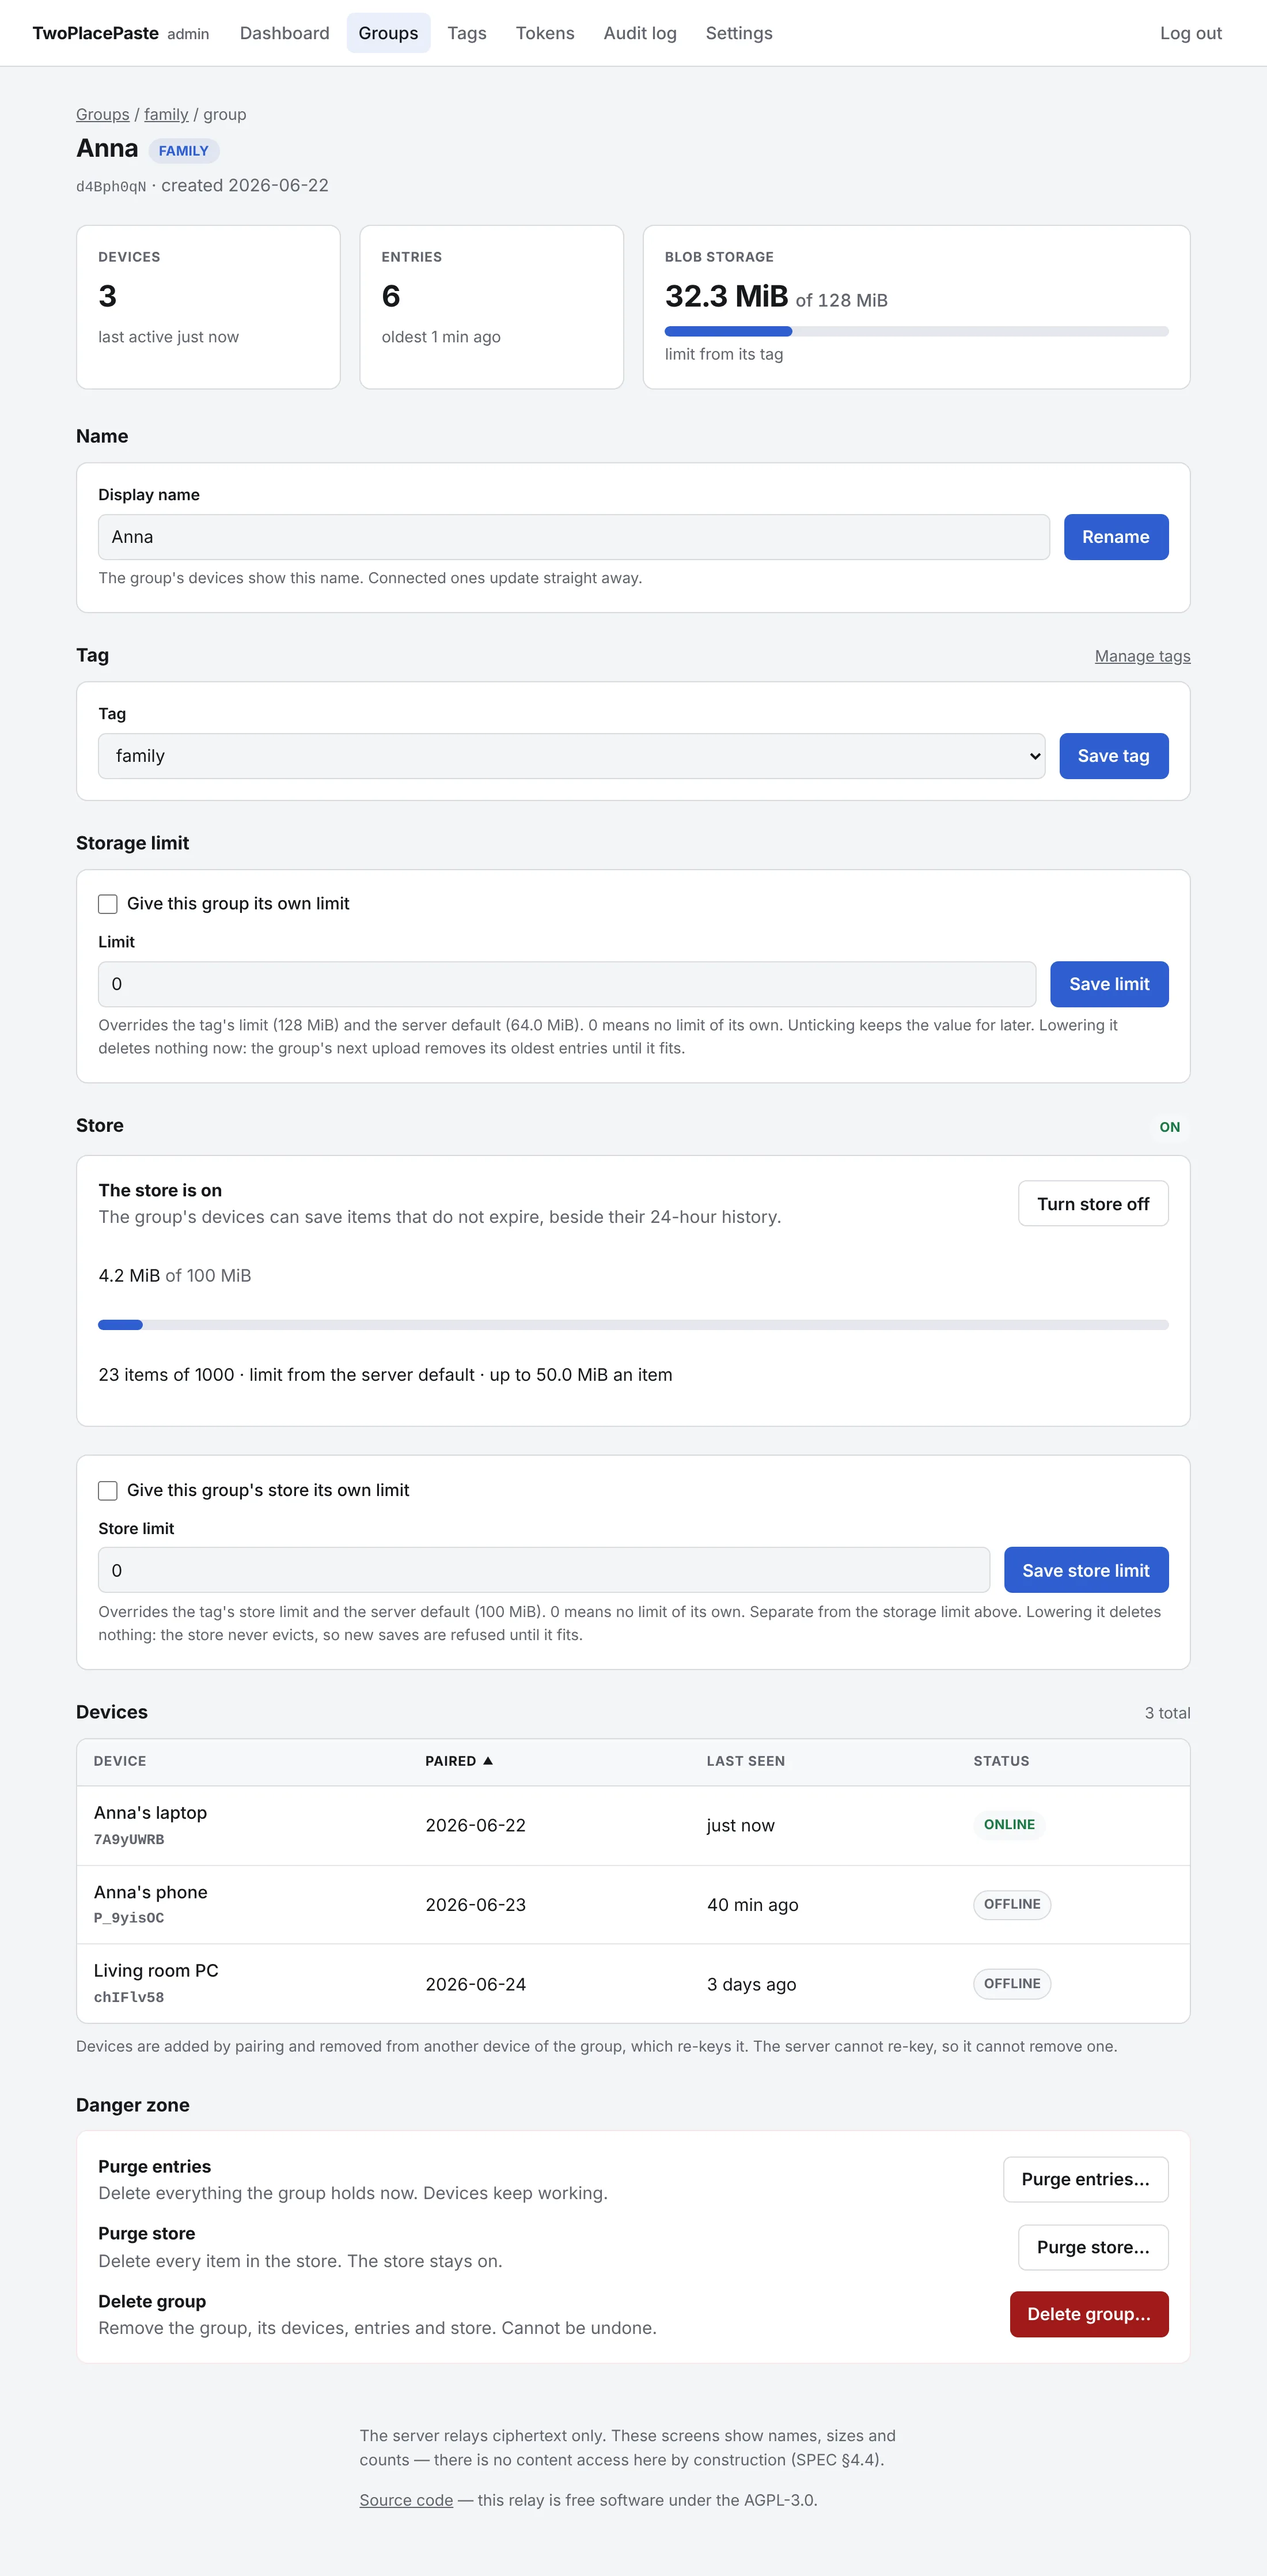
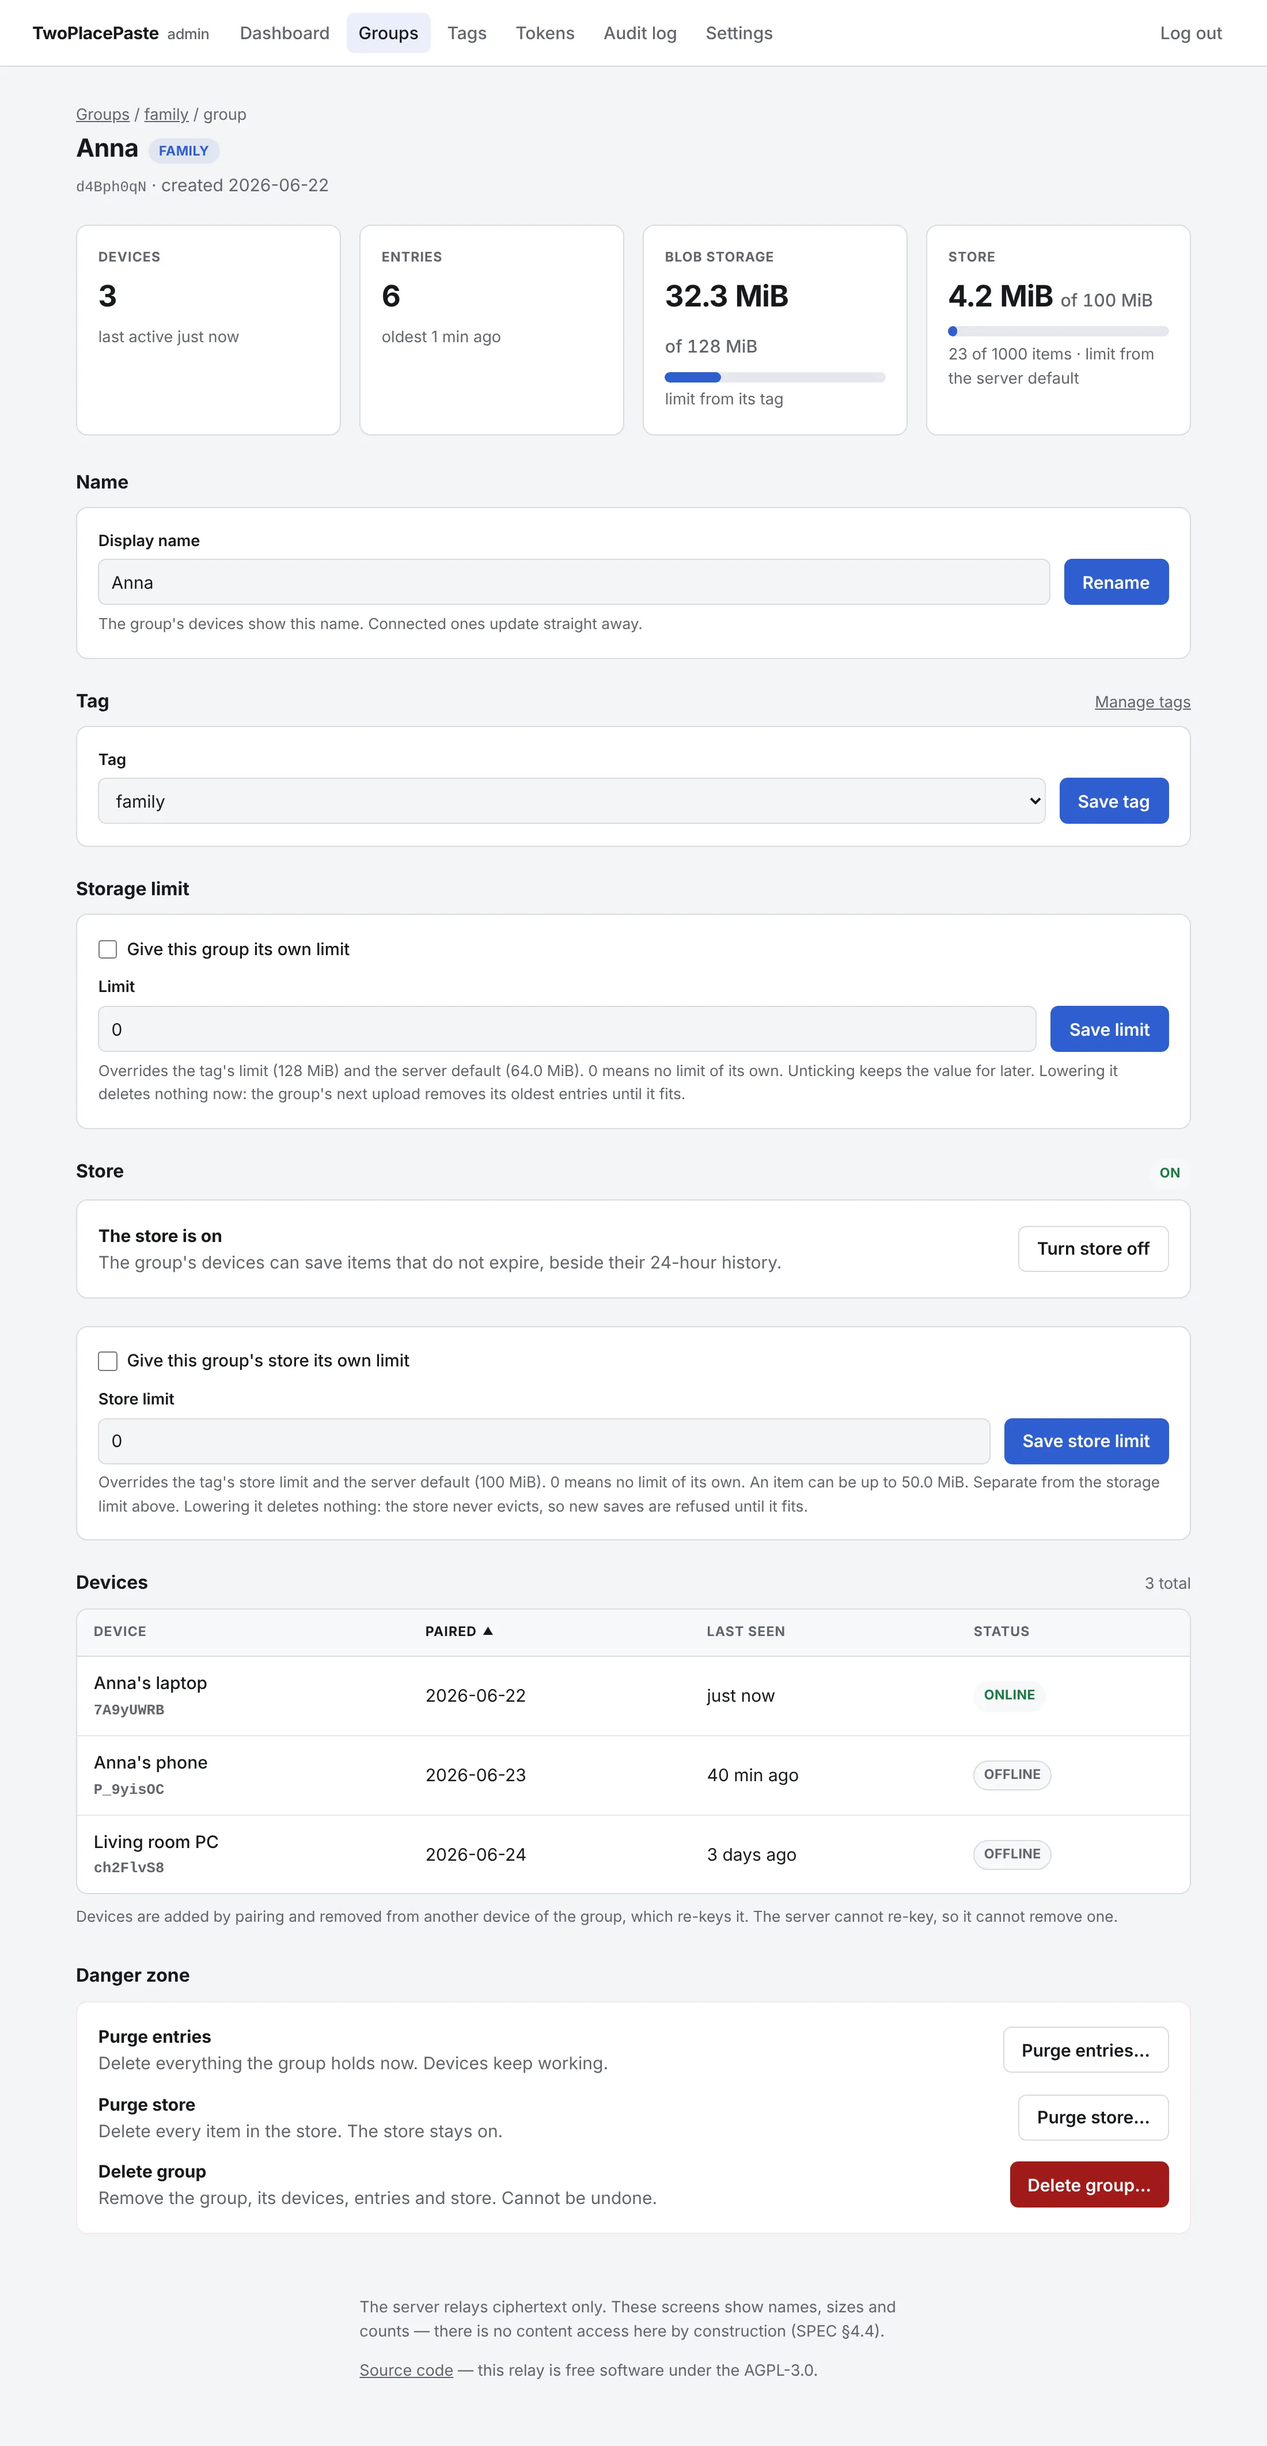
Show the group's store use beside its blob storage
The group page's summary row now has four equal tiles: devices,
entries, blob storage and store. The blob storage tile drops its
double width, and the store's usage meter moves out of the Store
section into the new tile, so both kinds of storage read at a glance.
The Store section keeps the on/off switch and the limit form; the
per-item size moves into the limit hint.

- docs: the group page text and a retaken screenshot.

Claude-Session: https://claude.ai/code/session_01HmpCbhUmA35H1CEHL6vmNK

diff --git a/server/ui/src/pages/GroupPage.tsx b/server/ui/src/pages/GroupPage.tsx
@@ -137,9 +137,9 @@ function Stats({ data }: { data: GroupDetail }) {
         <p className="sub">oldest {ago(now, g.oldest, "—")}</p>
       </StatCard>
       {g.usage && (
-        <StatCard title="Blob storage" wide>
+        <StatCard title="Blob storage">
           <p className="figure">
-            {humanBytes(g.usage.used_bytes)} <span className="muted">of {limitText(g.limit_bytes)}</span>
+            {humanBytes(g.usage.used_bytes)} <span className="muted nowrap">of {limitText(g.limit_bytes)}</span>
           </p>
           <UsageMeter used={g.usage.used_bytes} limit={g.limit_bytes} label="Blob storage used" />
           <p className="sub">
@@ -148,7 +148,26 @@ function Stats({ data }: { data: GroupDetail }) {
           </p>
         </StatCard>
       )}
+      {data.store && <StoreStat store={data.store} />}
     </div>
+  );
+}
+
+/** StoreStat is the store's usage beside the blob storage at the top of the
+ *  page; the Store section further down holds its switch and limit. */
+function StoreStat({ store }: { store: GroupStore }) {
+  return (
+    <StatCard title="Store">
+      <p className="figure">
+        {humanBytes(store.used_bytes)} <span className="muted nowrap">of {limitText(store.limit_bytes)}</span>
+      </p>
+      <UsageMeter used={store.used_bytes} limit={store.limit_bytes} label="Store used" />
+      <p className="sub">
+        {store.used_items} of {store.max_items} {plural(store.max_items, "item", "items")} · limit from{" "}
+        {limitSources[store.limit_source]}
+        {store.emptying ? " · emptying" : !store.enabled && " · off"}
+      </p>
+    </StatCard>
   );
 }
 
@@ -323,14 +342,6 @@ function StoreSection({
             {store.enabled ? "Turn store off" : "Turn store on"}
           </button>
         </div>
-        <p className="figure">
-          {humanBytes(store.used_bytes)} <span className="muted">of {limitText(store.limit_bytes)}</span>
-        </p>
-        <UsageMeter used={store.used_bytes} limit={store.limit_bytes} label="Store used" />
-        <p className="sub">
-          {items} of {store.max_items} · limit from {limitSources[store.limit_source]} · up to{" "}
-          {humanBytes(store.max_item_bytes)} an item
-        </p>
       </div>
       <form
         className="card"
@@ -361,7 +372,8 @@ function StoreSection({
         </div>
         <span className="hint">
           Overrides the tag's store limit{store.tag_limit_bytes !== null && ` (${limitText(store.tag_limit_bytes)})`}{" "}
-          and the server default ({limitText(store.default_limit_bytes)}). 0 means no limit of its own. Separate from
+          and the server default ({limitText(store.default_limit_bytes)}). 0 means no limit of its own. An item can
+          be up to {humanBytes(store.max_item_bytes)}. Separate from
           the storage limit above. Lowering it deletes nothing: the store never evicts, so new saves are refused until
           it fits.
         </span>
